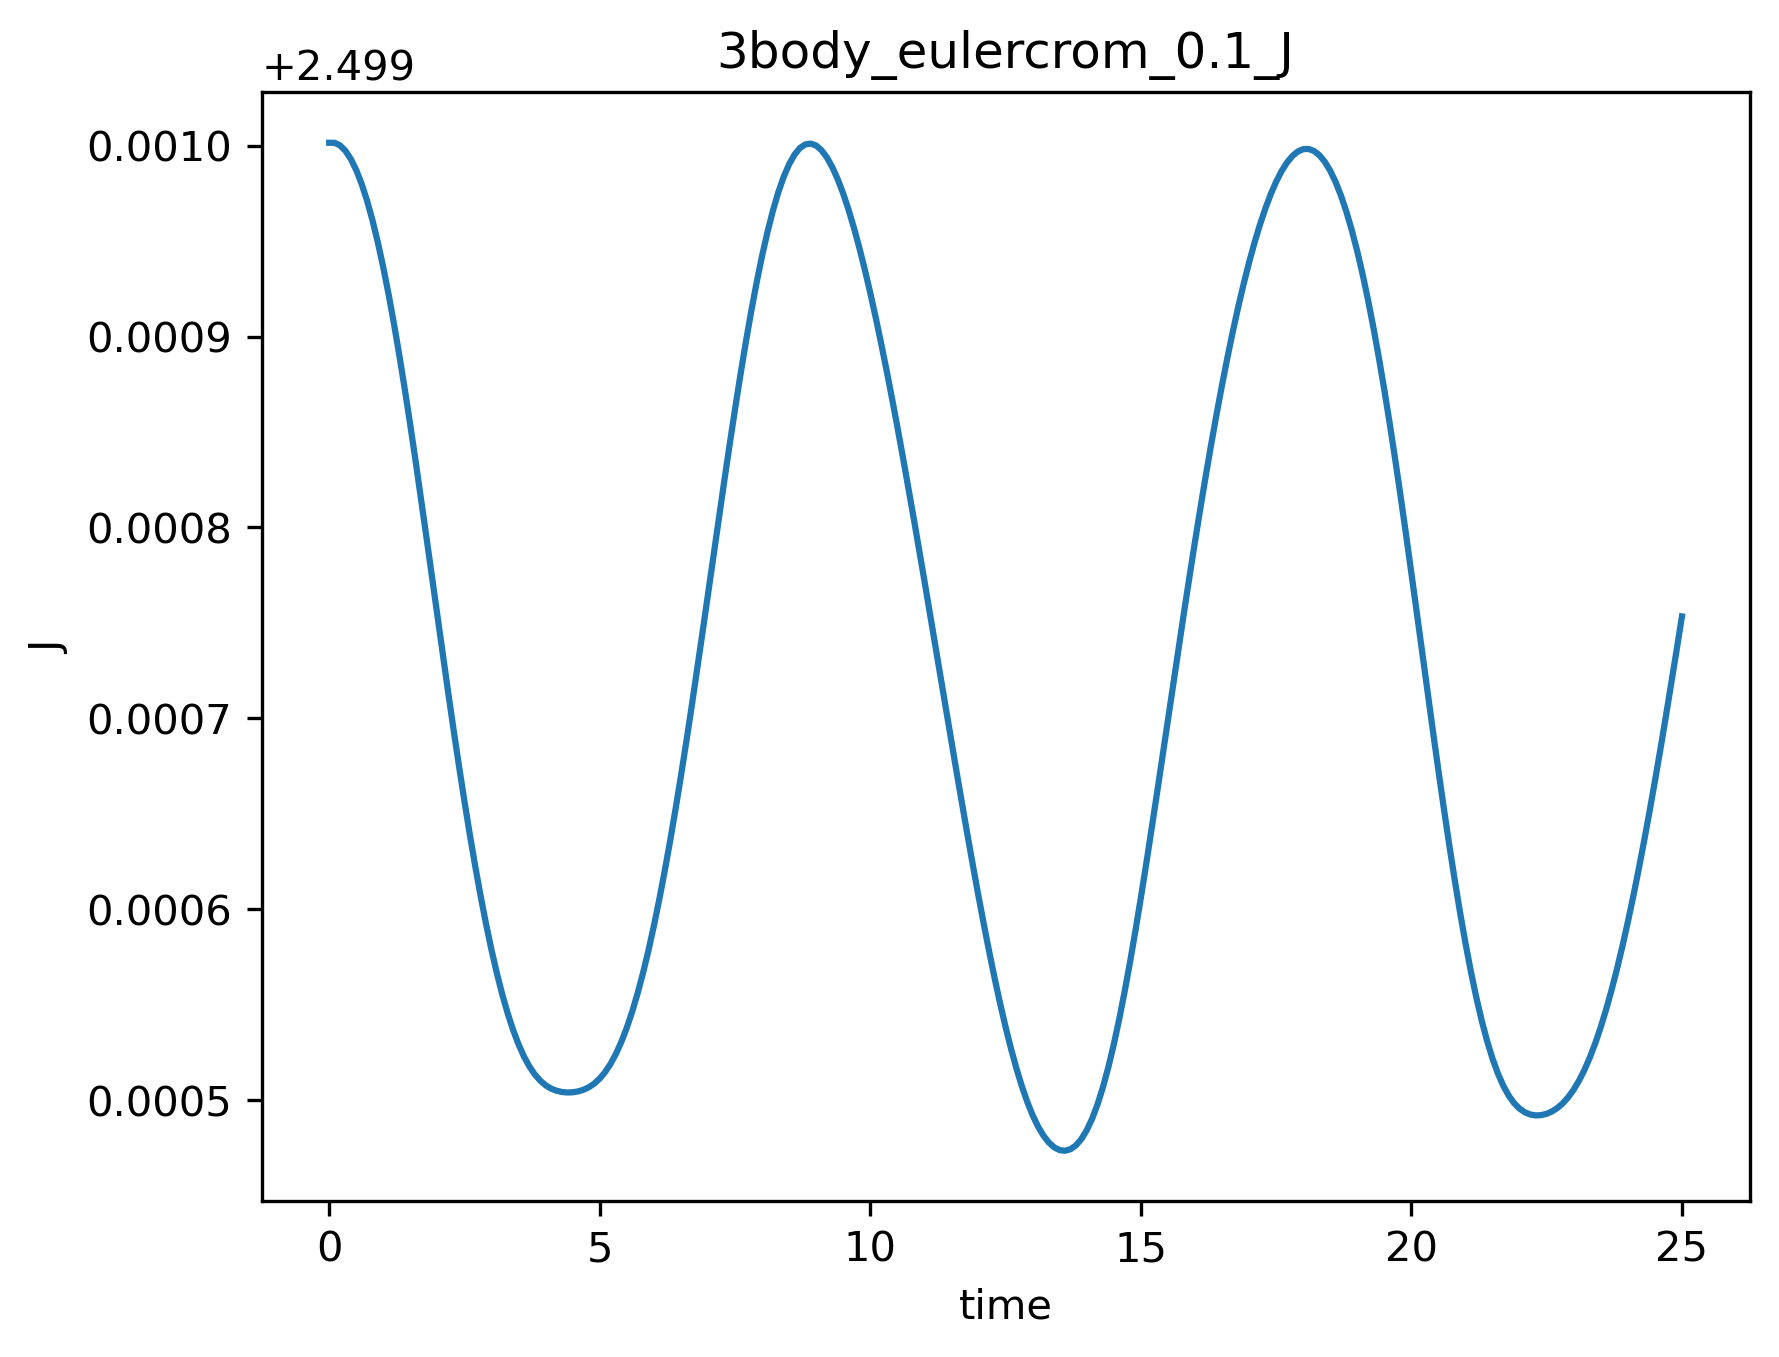
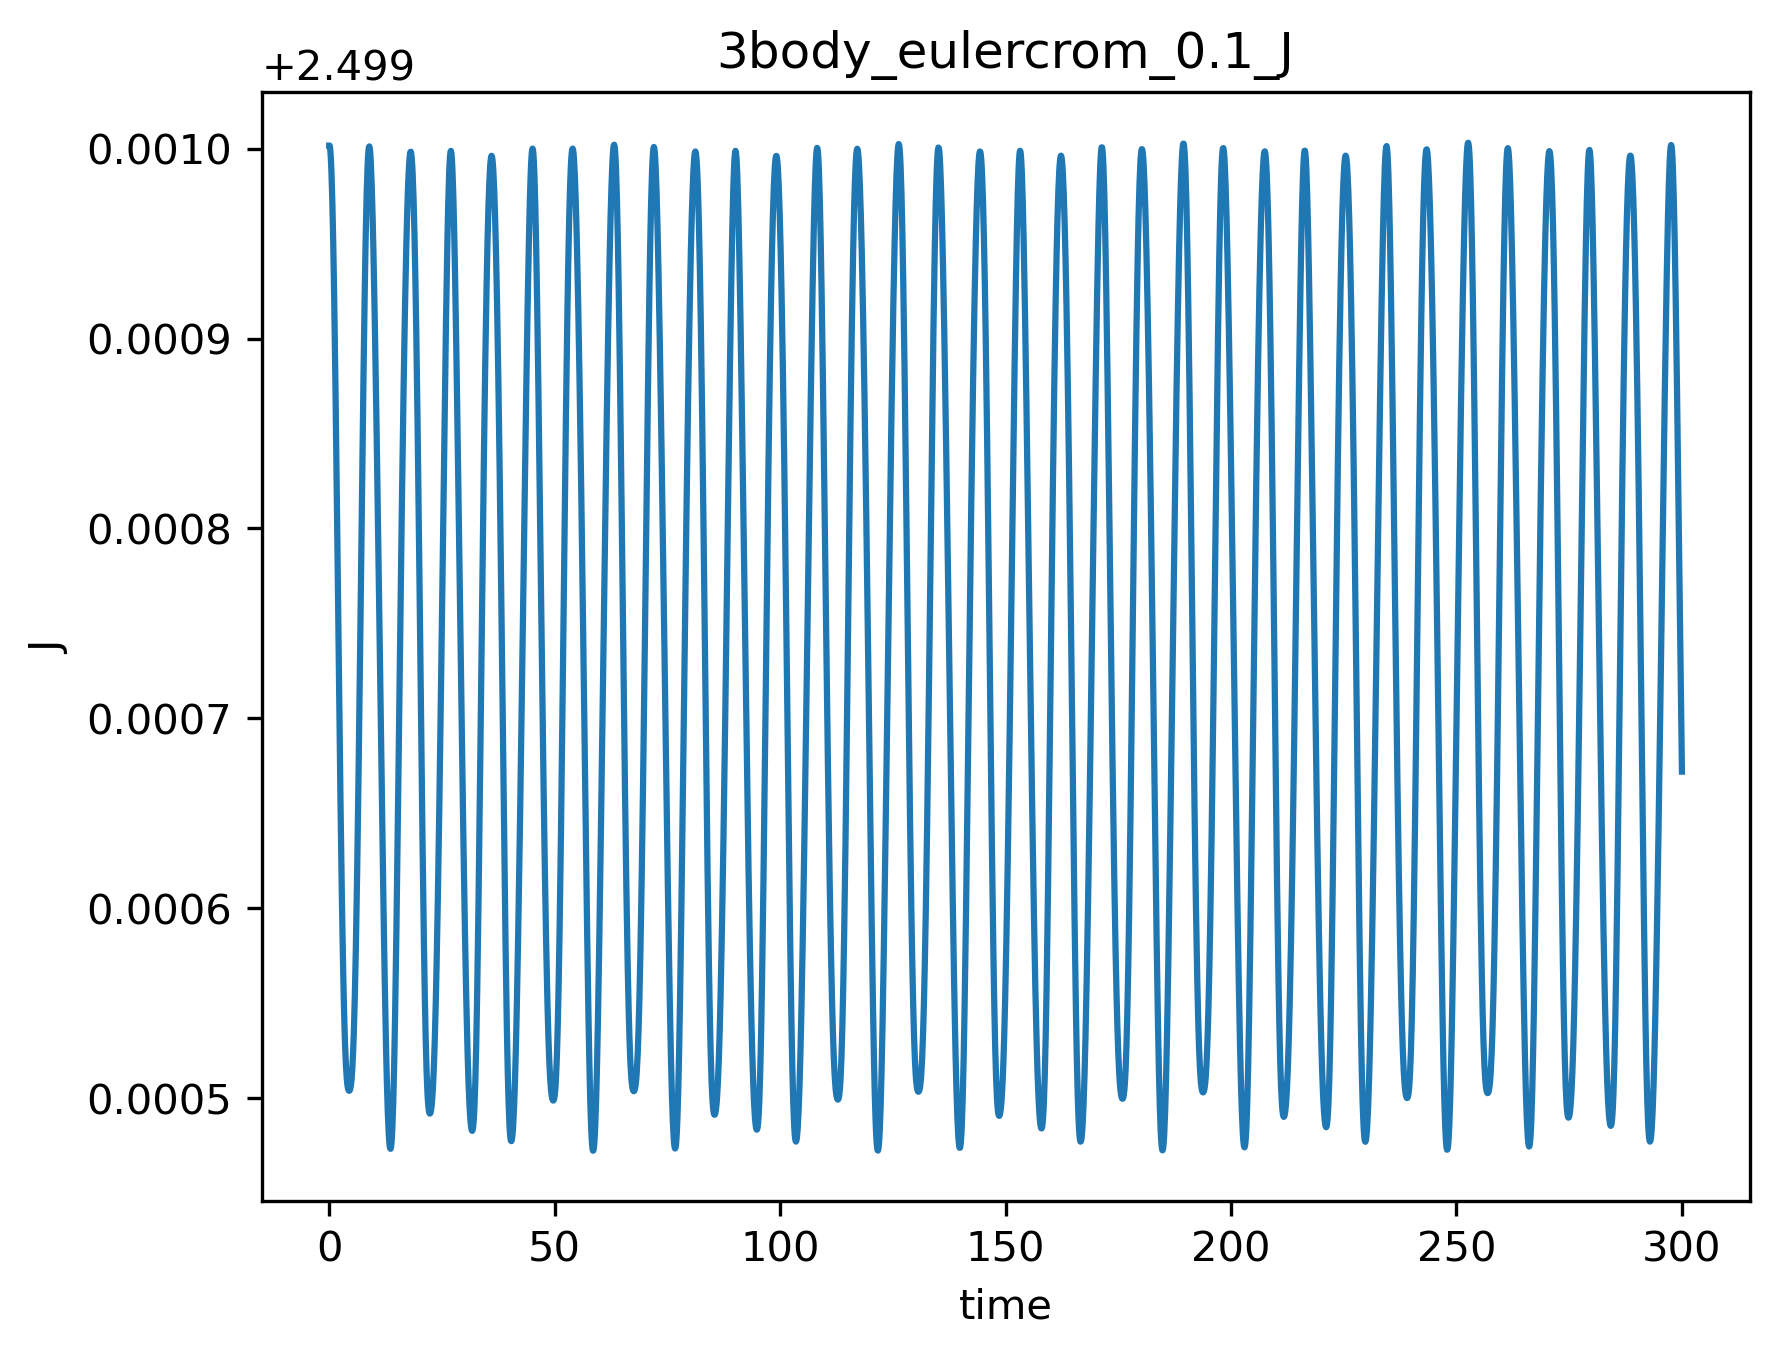
Refactored hermite integrator.

diff --git a/01-nbody/code/simulation/lib/integrators/int_hermite.c b/01-nbody/code/simulation/lib/integrators/int_hermite.c
@@ -29,32 +29,28 @@ void calc_hermite(Particle* Collection1, Particle* Collection2)
 
   Vector* Accel_p = calc_acc(Collection2);
   Vector* Jerk_p = calc_jerk(Collection2);
-
   // Correction step
   for (int i = 0; i < params.lineCount; i++) {
-    // Helper terms for calculation of higher order position derivatives a^(2) and a^(3)
-    Vector deltaA = vec_sub(Accel[i], Accel_p[i]);
-    Vector twoJ = vec_scalProd(2, Jerk[i]);
-    Vector twoJ_plus_Jp = vec_add(twoJ, Jerk_p[i]);
-
-    // Velocity correction
-    Vector termA_v = vec_scalProd(dt, deltaA);
-    Vector termB_v = vec_scalProd(dt2 / 3.0, twoJ_plus_Jp);
-    Vector termC_v = vec_scalProd(
-                       0.25, vec_add(vec_scalProd(2 * dt, deltaA),
-                                     vec_scalProd(dt2, vec_add(Jerk[i], Jerk_p[i]))));
-    Collection2[i].vel = vec_sub(
-                           Collection2[i].vel, vec_sub(vec_add(termA_v, termB_v), termC_v));
-
-    // Position correction
-    Vector termA_p = vec_scalProd(dt2 / 4.0, deltaA);
-    Vector termB_p = vec_scalProd(dt3 / 12.0, twoJ_plus_Jp);
-    Vector termC_p = vec_scalProd(
-                       1.0 / 20.0,
-                       vec_add(vec_scalProd(2 * dt2, deltaA),
-                               vec_scalProd(dt3, vec_add(Jerk[i], Jerk_p[i]))));
-    Collection2[i].pos = vec_sub(
-                           Collection2[i].pos, vec_sub(vec_add(termA_p, termB_p), termC_p));
+    // Correct velocity
+    Collection2[i].vel =
+      vec_add(Collection2[i].vel,
+              vec_scalProd(1.0 / 12.0,
+                           vec_add(vec_scalProd(-6.0 * dt, Accel[i]),
+                                   vec_add(vec_scalProd(6.0 * dt, Accel_p[i]),
+                                           vec_add(vec_scalProd(-5.0 * dt2, Jerk[i]),
+                                             vec_scalProd(-1.0 * dt2, Jerk_p[i]))))
+                          )
+             );
+    // Correct position
+    Collection2[i].pos =
+      vec_add(Collection2[i].pos,
+              vec_scalProd(1.0 / 60.0,
+                           vec_add(vec_scalProd(-9.0 * dt2, Accel[i]),
+                                   vec_add(vec_scalProd(9.0 * dt2, Accel_p[i]),
+                                           vec_add(vec_scalProd(-7.0 * dt3, Jerk[i]),
+                                             vec_scalProd(-2.0 * dt3, Jerk_p[i]))))
+                          )
+             );
   }
 
   free(Accel);

diff --git a/01-nbody/code/simulation/sim_data/data_calc/task2plotter.py b/01-nbody/code/simulation/sim_data/data_calc/task2plotter.py
@@ -3,9 +3,9 @@ import pandas as pd
 import os
 
 headers = ["t", "J", "E"]
-bodies = ["2body", "3body"]
-integrators = ["euler", "eulercrom", "hermite", "hermite_it", "velver"]
-timesteps = ["0.1", "0.5"]  # technically omitting one 0.1 hermite
+bodies = ["2body", "3body", "100body"]
+integrators = ["euler", "eulercrom", "hermite", "velver"]
+timesteps = ["0.01", "0.1", "0.5"]  # technically omitting one 0.1 hermite
 
 for b in bodies:
     for i in integrators:

diff --git a/01-nbody/code/simulation/lib/constants.c b/01-nbody/code/simulation/lib/constants.c
@@ -1,6 +1,6 @@
 #include "constants.h"
 
-const double TIMEMAX = 25;
+const double TIMEMAX = 300;
 
 void def_params(int argc, char* argv[])
 {
